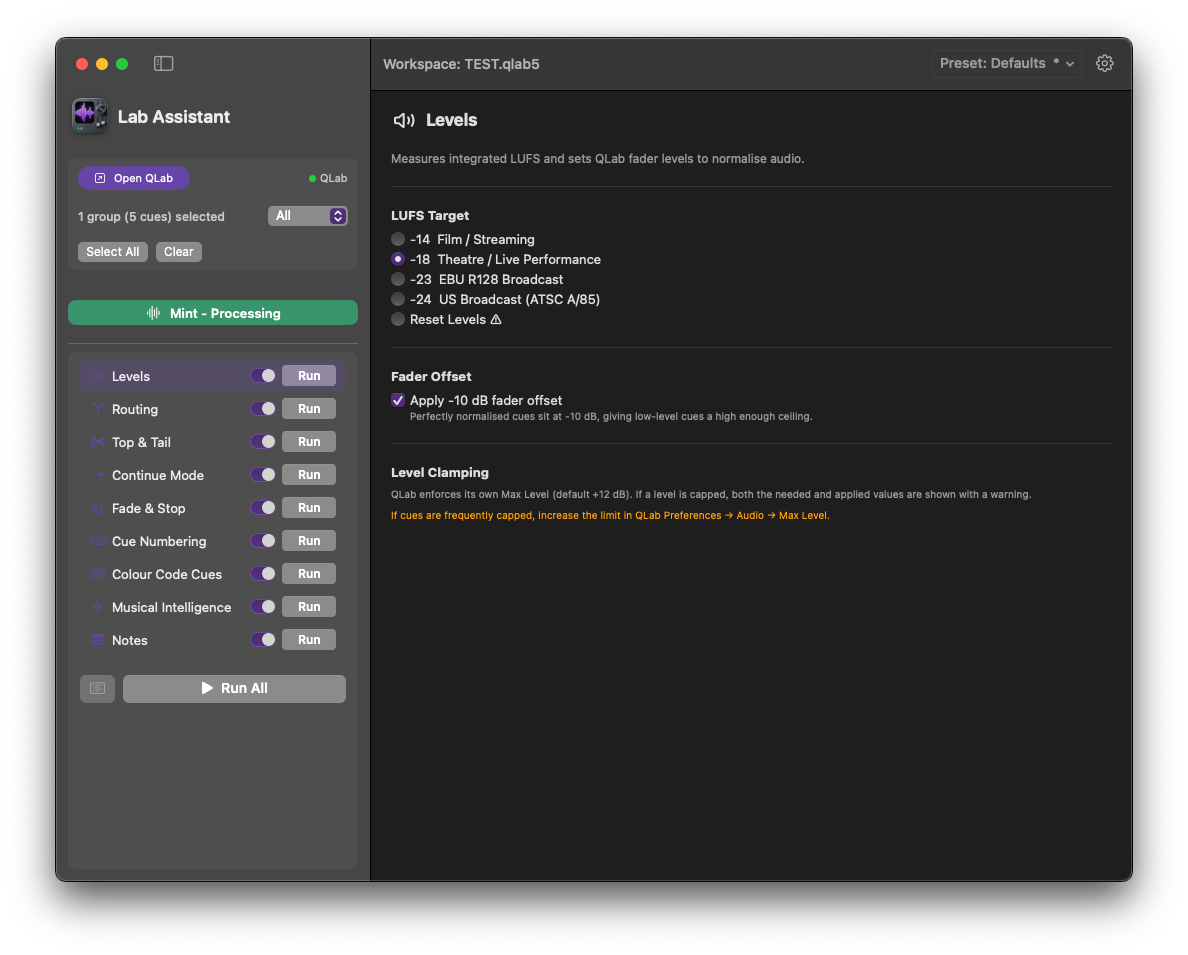
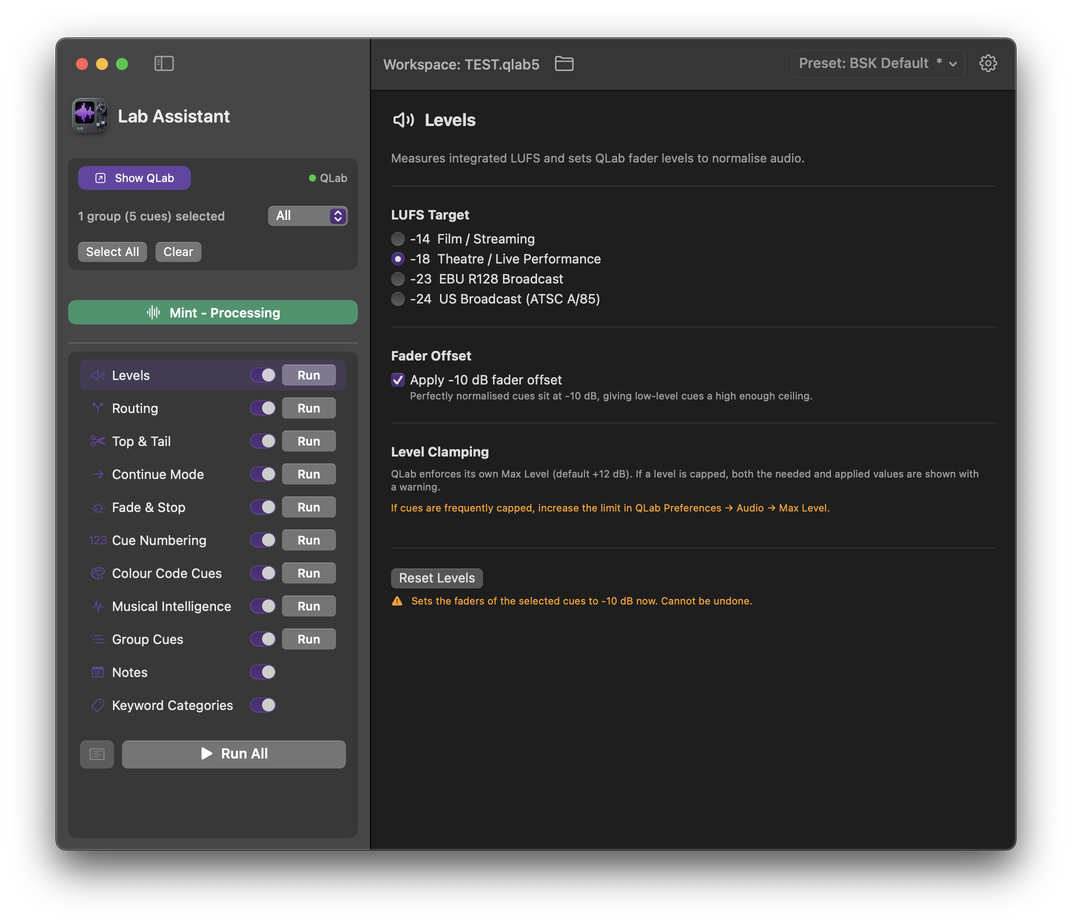
Lab Assistant page: new screenshots, Keyword Categories block, new homepage tile and link card

Changed region(s): [[0.0308, 0.0303, 0.9543, 0.9394]]

diff --git a/labassistant/index.html b/labassistant/index.html
@@ -11,7 +11,7 @@
     <link rel="apple-touch-icon" href="/images/favicon-180.png">
     <meta property="og:title" content="Lab Assistant - QLab Workspace Automation">
     <meta property="og:description" content="Auto levels, auto top and tail, mono and multi-output routing - and Mint cleans up audio and video cues in place.">
-    <meta property="og:image" content="https://bskapps.com/images/og-labassistant.png">
+    <meta property="og:image" content="https://bskapps.com/images/og-labassistant.png?v=2">
     <meta property="og:image:width" content="1200">
     <meta property="og:image:height" content="630">
     <meta property="og:url" content="https://bskapps.com/labassistant/">
@@ -72,7 +72,7 @@
                 <h3>Normalise a whole workspace at once</h3>
                 <p>Measures integrated LUFS across your selection and sets QLab fader levels to a broadcast target, with an optional -10 dB offset.</p>
             </div>
-            <img src="images/la-levels.png" alt="Levels module">
+            <img src="images/la-levels.png?v=2" alt="Levels module">
         </div>
 
         <div class="fblock flip">
@@ -81,7 +81,7 @@
                 <h3>Mono and multi-output in one pass</h3>
                 <p>Send cues to any output or pair, up to 64, with dual-mono and stereo fold-down handled, or let auto-classify sort Music, VOG and FX.</p>
             </div>
-            <img src="images/la-routing.png" alt="Multi-Output Routing module">
+            <img src="images/la-routing.png?v=2" alt="Multi-Output Routing module">
         </div>
 
         <div class="fblock">
@@ -90,7 +90,7 @@
                 <h3>Key and tempo, sorted for you</h3>
                 <p>Detects BPM and musical key, then sorts cues by Camelot wheel so transitions land instead of clashing.</p>
             </div>
-            <img src="images/la-musical.png" alt="Musical Intelligence module">
+            <img src="images/la-musical.png?v=2" alt="Musical Intelligence module">
         </div>
 
         <div class="fblock flip">
@@ -99,19 +99,28 @@
                 <h3>A cue list you can read at a glance</h3>
                 <p>A customisable colour map for audio, video, group and control cues, by type, channels, category and status.</p>
             </div>
-            <img src="images/la-colour.png" alt="Colour Code Cues module">
+            <img src="images/la-colour.png?v=2" alt="Colour Code Cues module">
         </div>
 
         <div class="fblock">
+            <div class="fb-text">
+                <p class="fb-kicker">Keyword Categories</p>
+                <h3>Sort cues by the words in their names</h3>
+                <p>Put cues into categories like Music, VOG and SFX by keywords in their name or notes, then route, colour and group each category its own way.</p>
+            </div>
+            <img src="images/la-keywords.png" alt="Keyword Categories module">
+        </div>
+
+        <div class="fblock flip">
             <div class="fb-text">
                 <p class="fb-kicker">Results</p>
                 <h3>See exactly what it did</h3>
                 <p>Every cue it touched, what it measured and what it applied, and it can write the same detail into QLab cue notes.</p>
             </div>
-            <img src="images/la-results.png" alt="Results view">
+            <img src="images/la-results.png?v=2" alt="Results view">
         </div>
 
-        <div class="fblock flip">
+        <div class="fblock">
             <div class="fb-text">
                 <p class="fb-kicker">Mint</p>
                 <h3>Fix the files, not just the cues</h3>

diff --git a/index.html b/index.html
@@ -99,7 +99,7 @@
             <a class="app-card" href="labassistant/">
             <div class="tile tile-staged">
                 <div class="tile-stage stage-la">
-                    <img class="tile-shot" src="labassistant/images/tile-labassistant.png" alt="Lab Assistant levels pass in QLab">
+                    <img class="tile-shot" src="labassistant/images/tile-labassistant.png?v=2" alt="Lab Assistant levels pass in QLab">
                 </div>
                 <div class="tile-icon-float"><img src="images/labassistant-icon-192.png" alt="" width="78" height="78"></div>
                 <div class="tile-body">
